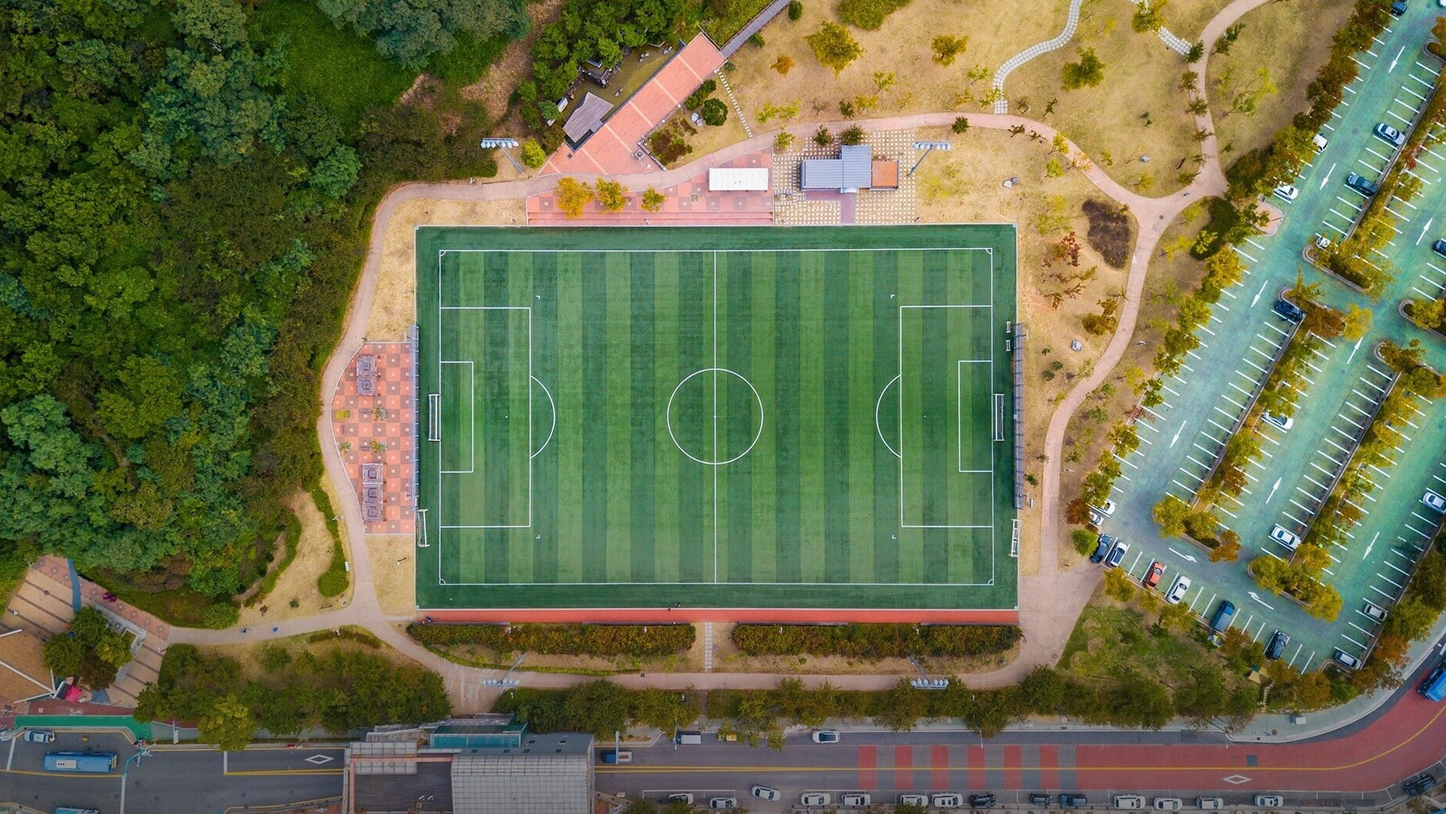
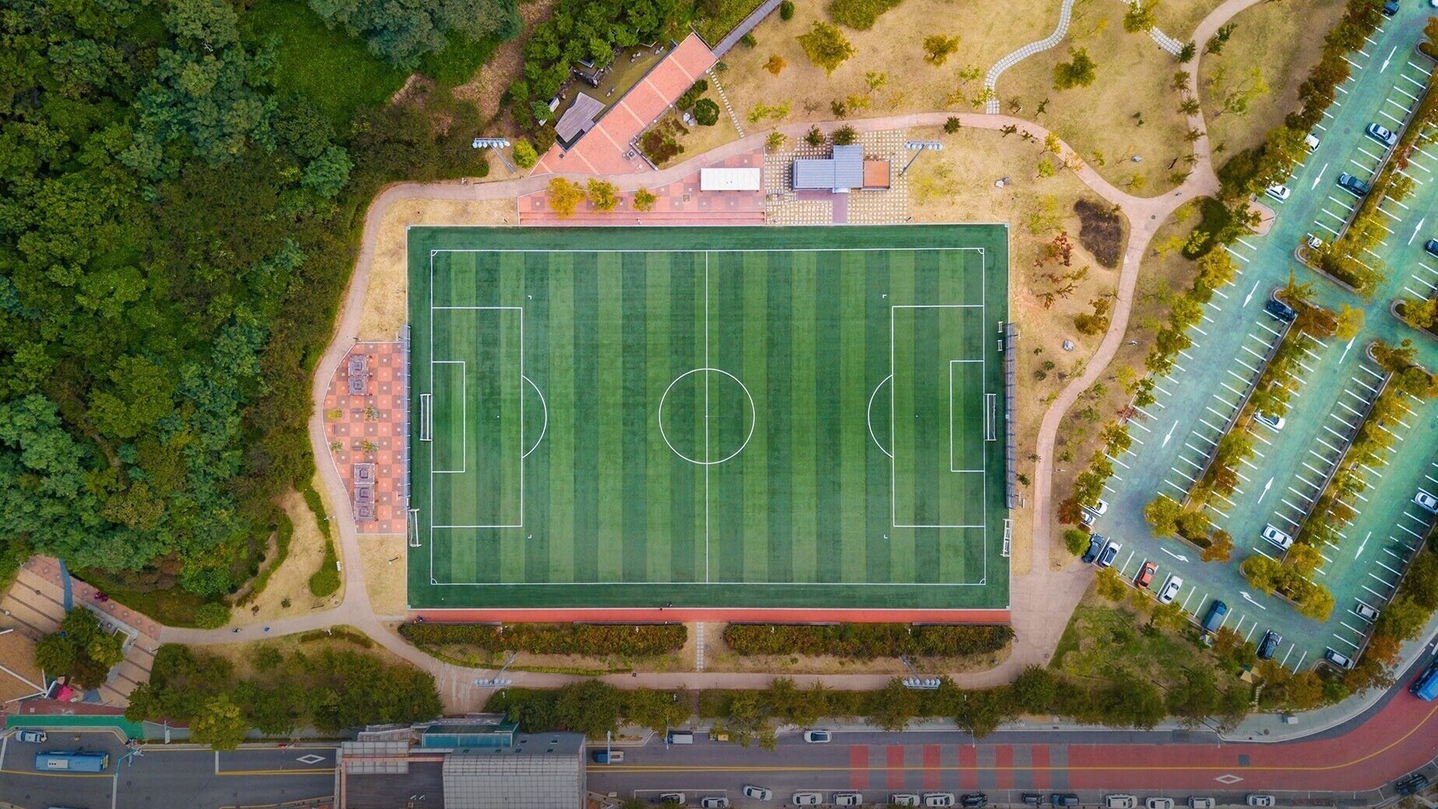
Updated field crop

diff --git a/portfolio.html b/portfolio.html
@@ -22,7 +22,7 @@
 							<div class="inner">
 								<h1>Welcome!</h1>
 								<p>Feel free to browse through my various projects linked below!</p>
-								<p>Thank you :)</p>
+								<p>WAWA</p>
 							</div>
 						</div>
 						
